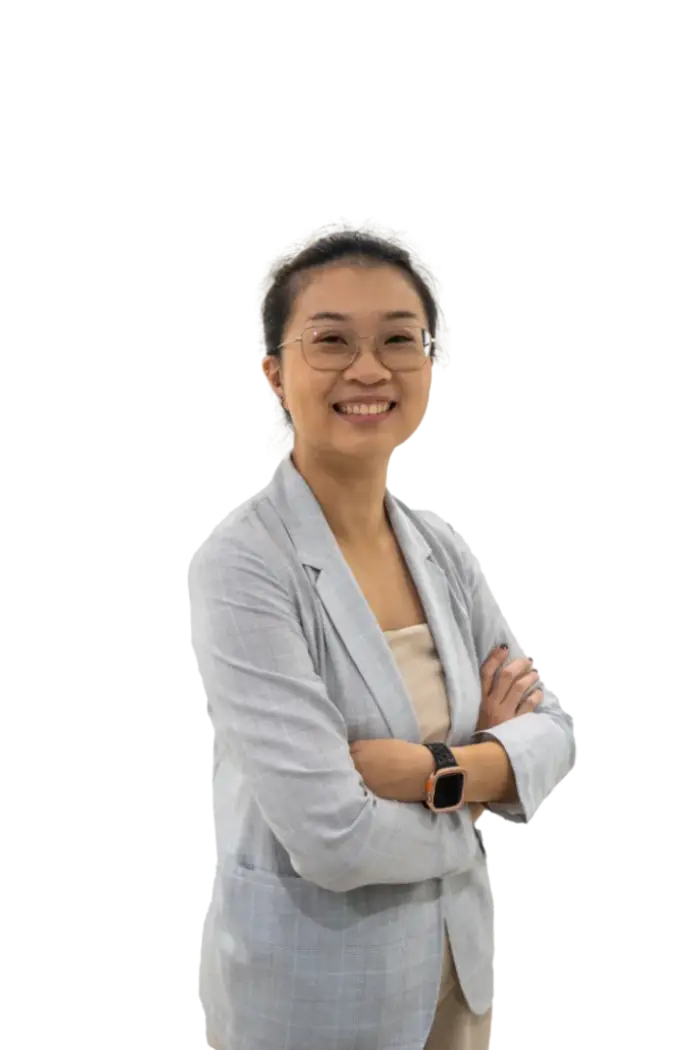
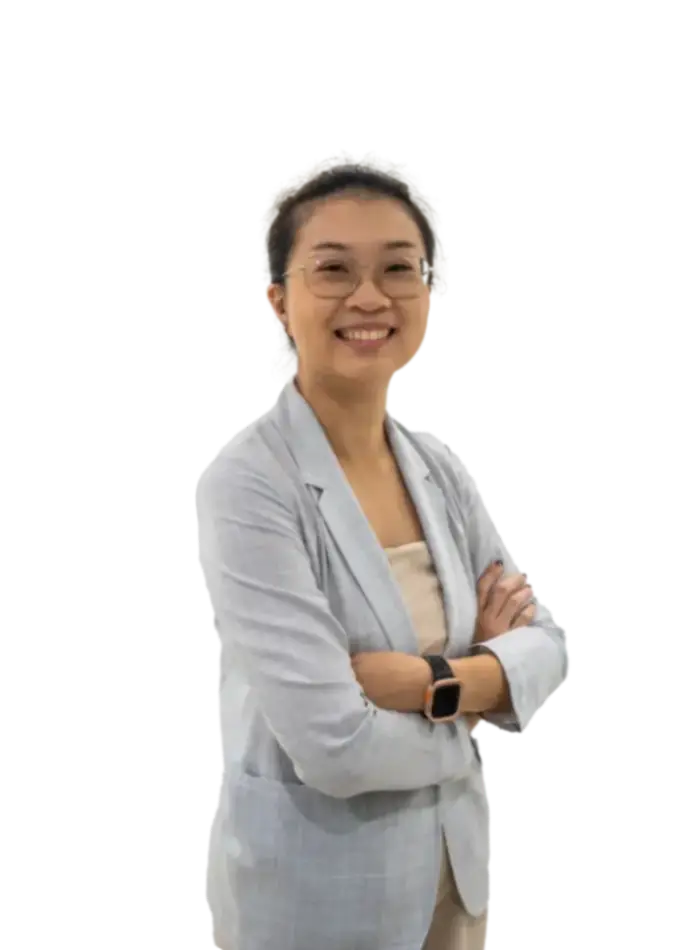
Update Contact Card and Staff Image

Changed region(s): [[0.27, 0.1526, 0.84, 1.0], [0.6, 0.8853, 0.66, 1.0], [0.33, 0.6105, 0.36, 0.6411]]

diff --git a/components/contactus/ContactCard.tsx b/components/contactus/ContactCard.tsx
@@ -9,81 +9,81 @@ import { FaTiktok, FaInstagram, FaFacebook, FaYoutube } from "react-icons/fa";
 const StudentReview = () => {
     return (
         <section data-aos="fade-up" data-aos-offset="-200" className={`${styles.studentReview} sectionYPadding`}>
-                <div className={styles.branchContainer}>
-                    <div className={styles.branchesGrid}>
-                    
+            <div className={styles.branchContainer}>
+                <div className={styles.branchesGrid}>
+
                     {/* Branch Card 1 */}
                     <div className={styles.branchCard}>
-                    <div className={styles.mapContainer}>
-                        <iframe
-                        src="https://www.google.com/maps/embed?pb=!1m18!1m12!1m3!1d3988.760348692577!2d103.90973967674459!3d1.3194947986679955!2m3!1f0!2f0!3f0!3m2!1i1024!2i768!4f13.1!3m3!1m2!1s0x31da3dbc275d3c4f%3A0xd8ad757897ca2aa8!2sMaythematics%20Math%20Tuition!5e0!3m2!1sen!2ssg!4v1757246942685!5m2!1sen!2ssg"
-                        className={styles.mapIframe}
-                        loading="lazy"
-                        allowFullScreen
-                        referrerPolicy="no-referrer-when-downgrade"
-                        />
-                    </div>
-
-                    <div className={styles.branchInfo}>
-                        <h3>Maythematics @ Kembangan</h3>
-
-                        <p className={styles.address}>
-                            5 Jln Masjid, #01-13#01-13 (& #01-02) <br />Kembangan Court, 418924
-                        </p>
-
-                        <div className={styles.meta}>
-                             <a href="https://wa.me/6589150859" target="_blank" rel="noopener noreferrer"><strong>WhatsApp:</strong> +65 8915 0859</a>
+                        <div className={styles.mapContainer}>
+                            <iframe
+                                src="https://www.google.com/maps/embed?pb=!1m18!1m12!1m3!1d3988.760348692577!2d103.90973967674459!3d1.3194947986679955!2m3!1f0!2f0!3f0!3m2!1i1024!2i768!4f13.1!3m3!1m2!1s0x31da3dbc275d3c4f%3A0xd8ad757897ca2aa8!2sMaythematics%20Math%20Tuition!5e0!3m2!1sen!2ssg!4v1757246942685!5m2!1sen!2ssg"
+                                className={styles.mapIframe}
+                                loading="lazy"
+                                allowFullScreen
+                                referrerPolicy="no-referrer-when-downgrade"
+                            />
                         </div>
 
-                        <div className={styles.hours}>
-                        <strong>Opening Hours</strong>
-                        <ul>
-                            <li>Mon – Fri: 1:00 PM – 9:00 PM</li>
-                            <li>Sat - Sun: 9:00 AM – 6:00 PM</li>
-                            <li>Closed on Public Holiday</li>
-                        </ul>
+                        <div className={styles.branchInfo}>
+                            <h3>Maythematics @ Kembangan</h3>
+
+                            <p className={styles.address}>
+                                5 Jln Masjid, #01-13(& #01-02) <br />Kembangan Court, 418924
+                            </p>
+
+                            <div className={styles.meta}>
+                                <a href="https://wa.me/6589150859" target="_blank" rel="noopener noreferrer"><strong>WhatsApp:</strong> +65 8915 0859</a>
+                            </div>
+
+                            <div className={styles.hours}>
+                                <strong>Opening Hours</strong>
+                                <ul>
+                                    <li>Mon – Fri: 1:00 PM – 9:00 PM</li>
+                                    <li>Sat - Sun: 9:00 AM – 6:00 PM</li>
+                                    <li>Closed on Public Holiday</li>
+                                </ul>
+                            </div>
                         </div>
-                    </div>
                     </div>
                     {/* Branch Card 2 */}
                     <div className={styles.branchCard}>
-                    <div className={styles.mapContainer}>
-                        <iframe
-                        src="https://www.google.com/maps/embed?pb=!1m18!1m12!1m3!1d997.1815882606709!2d103.77423220000001!3d1.3405277000000002!2m3!1f0!2f0!3f0!3m2!1i1024!2i768!4f13.1!3m3!1m2!1s0x31da1144399af86b%3A0x134d6d269f712a18!2sMaythematics%20Math%20Tuition!5e0!3m2!1sen!2ssg!4v1766396434377!5m2!1sen!2ssg"
-                        className={styles.mapIframe}
-                        loading="lazy"
-                        allowFullScreen
-                        referrerPolicy="no-referrer-when-downgrade"
-                        />
-                    </div>
-
-                    <div className={styles.branchInfo}>
-                        <h3>Maythematics @ Beauty World</h3>
-
-                        <p className={styles.address}>
-                            54A Jln Jurong Kechil,<br /> Singapore 598580
-                        </p>
-
-                        <div className={styles.meta}>
-                             <a href="https://wa.me/6589150859" target="_blank" rel="noopener noreferrer"><strong>WhatsApp:</strong> +65 8915 0859</a>
-
+                        <div className={styles.mapContainer}>
+                            <iframe
+                                src="https://www.google.com/maps/embed?pb=!1m18!1m12!1m3!1d997.1815882606709!2d103.77423220000001!3d1.3405277000000002!2m3!1f0!2f0!3f0!3m2!1i1024!2i768!4f13.1!3m3!1m2!1s0x31da1144399af86b%3A0x134d6d269f712a18!2sMaythematics%20Math%20Tuition!5e0!3m2!1sen!2ssg!4v1766396434377!5m2!1sen!2ssg"
+                                className={styles.mapIframe}
+                                loading="lazy"
+                                allowFullScreen
+                                referrerPolicy="no-referrer-when-downgrade"
+                            />
                         </div>
 
-                        <div className={styles.hours}>
-                        <strong>Opening Hours</strong>
-                        <ul>
-                            <li>Mon – Fri: 1:00 PM – 9:00 PM</li>
-                            <li>Sat - Sun: 9:00 AM – 6:00 PM</li>
-                            <li>Closed on Public Holiday</li>
-                        </ul>
+                        <div className={styles.branchInfo}>
+                            <h3>Maythematics @ Beauty World</h3>
+
+                            <p className={styles.address}>
+                                54A Jln Jurong Kechil,<br /> Singapore 598580
+                            </p>
+
+                            <div className={styles.meta}>
+                                <a href="https://wa.me/6589150859" target="_blank" rel="noopener noreferrer"><strong>WhatsApp:</strong> +65 8915 0859</a>
+
+                            </div>
+
+                            <div className={styles.hours}>
+                                <strong>Opening Hours</strong>
+                                <ul>
+                                    <li>Mon – Fri: 1:00 PM – 9:00 PM</li>
+                                    <li>Sat - Sun: 9:00 AM – 6:00 PM</li>
+                                    <li>Closed on Public Holiday</li>
+                                </ul>
+                            </div>
                         </div>
-                    </div>
                     </div>
 
                 </div>
             </div>
 
-                        <div className={styles.videoOverlay}>
+            <div className={styles.videoOverlay}>
 
             </div>
         </section >

diff --git a/components/storyandteam/Team.tsx b/components/storyandteam/Team.tsx
@@ -91,13 +91,15 @@ Outside of teaching, I enjoy going for long walks, which gives me time to reflec
         studentReviews: null
     },
 
-            {
+    {
         name: "Claresta",
         startYear: 3000,
         role: "Math Specialist",
         imageUrl: "/images/team/Claresta_1.webp",
         imageUrlHover: "/images/team/Claresta_2.webp",
         degree: "Bachelor of System Engineering",
+        youtubeUrl: "https://youtube.com/embed/_imtgYbpOd8",
+
         description: `Hi, I’m Claresta, a Math tutor who believes that learning goes beyond grades — it’s about building confidence, resilience, and belief in oneself.
 
 Before focusing fully on tutoring, I worked closely with youths in mentoring and experiential learning environments, where I witnessed how patience, guidance, and encouragement can positively shape mindsets and lives. This experience deeply influences the way I teach today.
@@ -235,13 +237,14 @@ Outside of teaching, I enjoy listening to music and spending quality time with m
         ],
     },
 
-        {
+    {
         name: "Kai Teng",
         startYear: 3000,
         role: "Math Specialist",
         imageUrl: "/images/team/Kaiteng_1.webp",
         imageUrlHover: "/images/team/Kaiteng_2.webp",
         degree: "Bachelor of Science in Mathematical Sciences, NTU",
+        youtubeUrl: "https://youtube.com/embed/uXmaYydQWhY",
         description: `Hi, I’m Kai Teng! I have three years of experience providing private Math tuition alongside my degree studies. I’m deeply passionate about helping students feel less overwhelmed and more confident when tackling challenging math questions.
 
 I’ve loved math since I was young, and having taken the N-Level route and completed a five-year secondary school journey, I truly believe that progress comes from patience, consistent effort, and being given the time to grow. This perspective shapes the way I teach. In my lessons, I break down questions step by step, regularly check for understanding, and actively seek students’ feedback so I can adapt my teaching to suit their learning needs.
